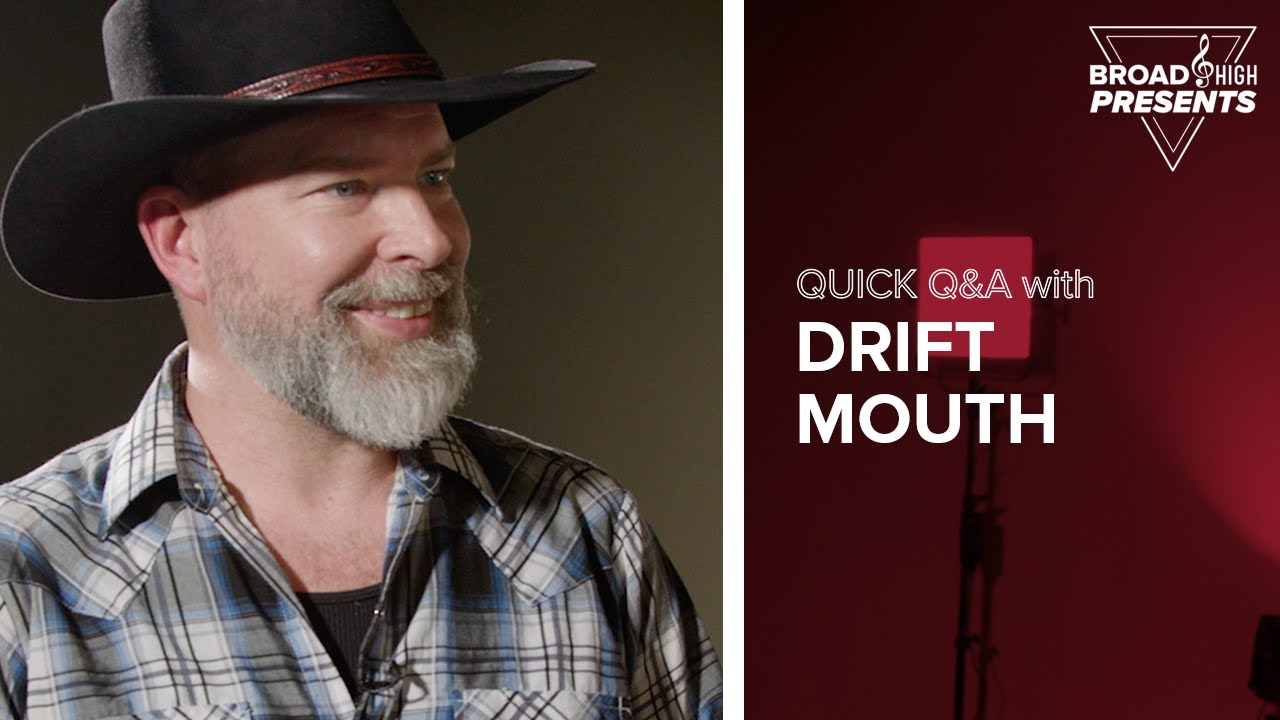
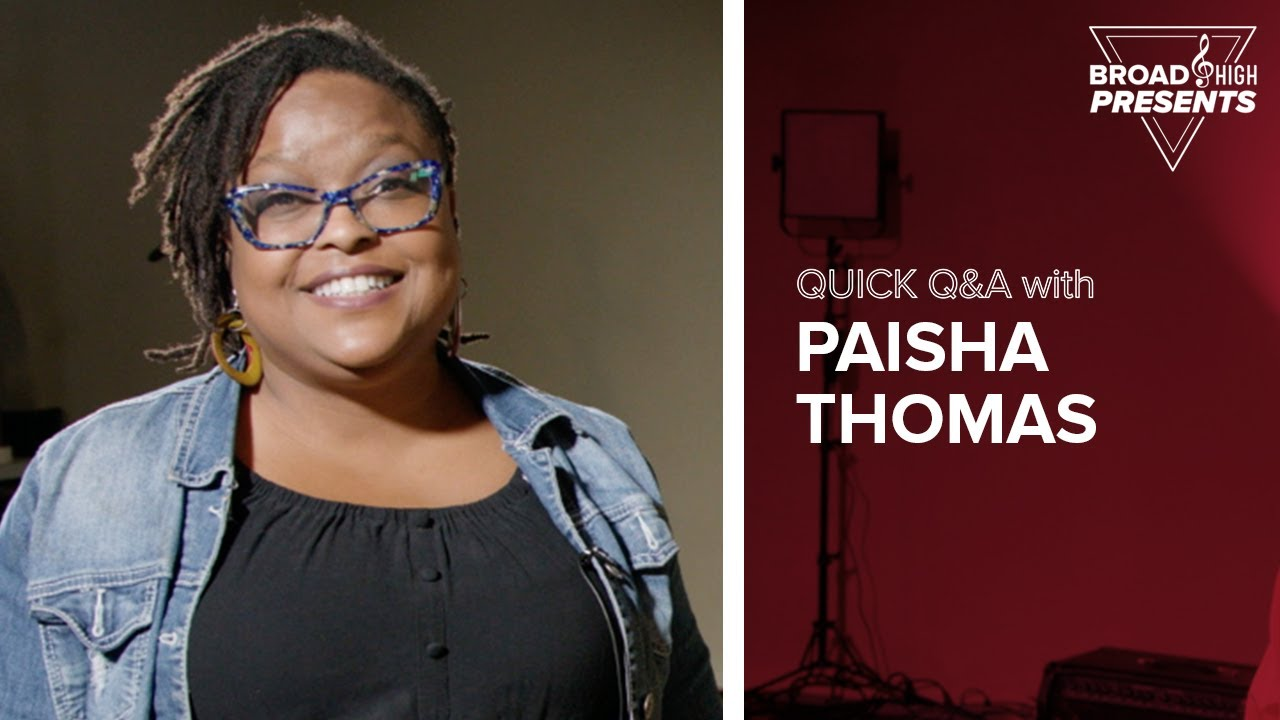
changed overdrive and WOSU video

diff --git a/pages/video.html b/pages/video.html
@@ -48,7 +48,7 @@
         <canvas class="orbit" id="starContainer"></canvas>
         <div id="line"></div>
         <div id="lightgallery">
-          <a data-src="https://www.youtube.com/watch?v=BCFsAFj38Xg&t=3s" href="https://www.youtube.com/watch?v=BCFsAFj38Xg&t=3s">
+          <a data-src="https://www.youtube.com/watch?v=62a0pkfyNoQ&feature=youtu.be" href="https://www.youtube.com/watch?v=62a0pkfyNoQ&feature=youtu.be">
               <img src="../Photo/Video_Thumbnails/QuickQA_Thumbnail.jpg">
               <div class="caption">
                 <h4>Broad & High Presents | Quick Q&A | Producer, Editor, Host</h4>
